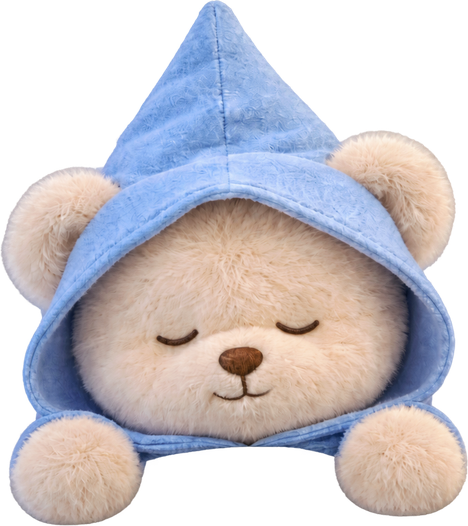
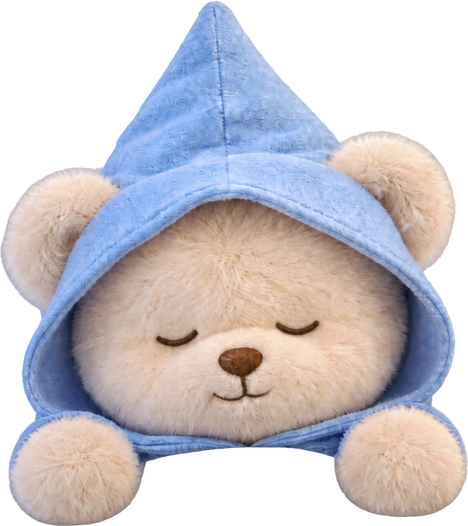
Спальня: дышит одеяло, а не голова; засыпая — клюёт носом
Заказчик 22.09 по второй версии: «дыхание очень сильное, как будто
подпрыгивает его тело… у правого глаза как будто какая-то полоска».

Дыхание. Раньше вверх ехала вся фигура на 3,2 процента высоты плюс
раздувание — макушка ходила на четыре точки. Теперь фигуру не двигаем:
одеяло приподнимается от нижнего края на 1 процент своей высоты, плечи
расширяются на 1,4 по высоте и 0,6 по ширине от того же края, макушка
ходит на одну точку. Так и выглядит спящий под одеялом: дышит одеяло.

Засыпание. Лапы вынесены в отдельный слой (bear_paws.png, поверх
головы), чтобы лежать на месте, пока голова клюёт носом: с началом
эпизода голова за 3,6 с наклоняется на полтора градуса и опускается на
1,6 процента высоты, при пробуждении вздрагивает обратно за 420 мс с
перелётом. Все слои мишки теперь режутся по одной рамке, иначе лапы,
вырезанные по своему содержимому, садились не туда.

Моргание в три фазы через полуприкрытые: щелчок без промежуточного
кадра читался как сбой картинки.

Полоска у правого глаза — хвост века из базового файла, торчавший
из-под пересаженного глаза. Маска пересадки расширена.

Claude-Session: https://claude.ai/code/session_01EkUPogq5Va4qQG792fJCS6

diff --git a/lib/widgets/bedroom_scene.dart b/lib/widgets/bedroom_scene.dart
@@ -4,26 +4,26 @@ import 'dart:math' as math;
 
 import 'package:flutter/material.dart';
 
-/// Живые слои спальни: мишка дышит, моргает и засыпает под одеялом.
+/// Живые слои спальни: мишка сопит, моргает и засыпает под одеялом.
 ///
 /// Заказчик 21.09: «во вкладке сон, где мишка в кровати лежит, сделать
-/// анимацию дыхания и моргания глаз, будто он хочет спать». И 22.09, после
+/// анимацию дыхания и моргания глаз, будто он хочет спать». 22.09, после
 /// первой версии: «у него должно быть открыто, и он должен моргать. Это
-/// эффект, когда человек как будто бы засыпает» — то есть основное
-/// состояние с открытыми глазами, а прикрытые и закрытые — эпизоды.
+/// эффект, когда человек как будто бы засыпает». И после второй: «дыхание
+/// очень сильное, как будто подпрыгивает его тело» — то есть дышать должно
+/// одеяло и плечи, а не голова.
 ///
-/// Раньше это было нечем сделать: спальню прислали одной плоской картинкой,
-/// мишка был впечатан в фон вместе с подушками. Теперь картинка разобрана на
-/// слои (`tool/cut_bedroom_layers.py`), и мишка — отдельный файл, который
-/// можно двигать и подменять.
+/// По ТЗ аниматора это `act_sleep`: «укладывается, засыпает, сопит» — риг в
+/// Rive. Позы «лёжа» в риге нет, и заказчик прислал спальню картинкой вместо
+/// неё. Картинка разобрана на слои (`tool/cut_bedroom_layers.py`), и из них
+/// здесь собрано то, что из `act_sleep` можно собрать без рига: сопение,
+/// моргание, засыпание с покачиванием головы. Укладывание и потягивание при
+/// пробуждении — уже только риг.
 ///
-/// Слои складываются снизу вверх: комната без мишки (это фон комнаты,
-/// рисуется не здесь) → мишка → передний край одеяла → свет ночника. Одеяло
-/// поверх мишки нужно именно для дыхания: его низ уходит под одеяло, а не
-/// болтается над ним.
-///
-/// Живой риг (`BearView`) сюда не ставится: поза «лёжа под одеялом» в риге
-/// не собрана, и заказчик прислал спальню как раз вместо неё.
+/// Слои снизу вверх: комната без мишки (фон комнаты, рисуется не здесь) →
+/// голова с лицом → лапы → передний край одеяла → свет ночника. Лапы отдельно,
+/// чтобы лежать на месте, пока голова клюёт носом. Одеяло поверх, чтобы низ
+/// фигуры уходил под него.
 class BedroomScene extends StatefulWidget {
   const BedroomScene({super.key});
 
@@ -39,12 +39,16 @@ class BedroomScene extends StatefulWidget {
   /// ребёнка; на взрослых трёх секундах мишка выглядит встревоженным.
   static const Duration breath = Duration(milliseconds: 4400);
 
-  /// Насколько мишка ходит вверх-вниз — в долях собственной высоты, и
-  /// насколько раздувается грудью. Заказчик 22.09 попросил заметнее: «чтобы
-  /// видно было, что он дышит грудью». Больше этого уже читается как
-  /// подпрыгивание.
-  static const double breathLift = 0.032;
-  static const double breathSwell = 0.022;
+  /// Дыхание — это одеяло и плечи, не голова. Одеяло приподнимается от
+  /// нижнего края, плечи чуть расширяются, макушка ходит на волосок.
+  /// Заказчик 22.09: при подъёме всей фигуры «как будто подпрыгивает».
+  static const double blanketRise = 0.010;
+  static const double shoulderSwell = 0.014;
+  static const double shoulderSpread = 0.006;
+
+  /// Засыпая, голова наклоняется и опускается. Радианы и доля высоты.
+  static const double nodTilt = -0.026;
+  static const double nodDrop = 0.016;
 
   /// Ночник дышит своим темпом: совпади он с мишкой, комната начала бы
   /// пульсировать целиком.
@@ -66,9 +70,9 @@ enum _Face {
   final String asset;
 }
 
-/// Один шаг сценария: показать лицо, перетекая к нему за [fade], и держать
-/// его [hold], прежде чем идти дальше.
-typedef _Step = ({_Face face, Duration fade, Duration hold});
+/// Один шаг сценария: показать лицо, перетекая к нему за [fade], держать
+/// его [hold] и, если сказано, начать или прекратить клевать носом.
+typedef _Step = ({_Face face, Duration fade, Duration hold, bool? nod});
 
 class _BedroomSceneState extends State<BedroomScene>
     with TickerProviderStateMixin {
@@ -86,6 +90,20 @@ class _BedroomSceneState extends State<BedroomScene>
     vsync: this,
     duration: const Duration(milliseconds: 140),
     value: 1,
+  );
+
+  /// Голова: 0 — прямо, 1 — свесилась. Вперёд медленно, а обратно
+  /// вздрагивает: спохватился.
+  late final AnimationController _nodDrive = AnimationController(
+    vsync: this,
+    duration: const Duration(milliseconds: 3600),
+    reverseDuration: const Duration(milliseconds: 420),
+  );
+
+  late final Animation<double> _nod = CurvedAnimation(
+    parent: _nodDrive,
+    curve: Curves.easeInOutSine,
+    reverseCurve: Curves.easeOutBack,
   );
 
   /// Вдох короче выдоха: так дышат во сне. Ровная синусоида читается как
@@ -132,8 +150,10 @@ class _BedroomSceneState extends State<BedroomScene>
       _plan.clear();
       _breath.stop();
       _lamp.stop();
+      _nodDrive.stop();
       _breath.value = 0;
       _lamp.value = 0;
+      _nodDrive.value = 0;
       _show(_Face.open, Duration.zero);
     } else {
       _breath.repeat();
@@ -148,6 +168,7 @@ class _BedroomSceneState extends State<BedroomScene>
     _breath.dispose();
     _lamp.dispose();
     _fade.dispose();
+    _nodDrive.dispose();
     super.dispose();
   }
 
@@ -170,23 +191,26 @@ class _BedroomSceneState extends State<BedroomScene>
     final drowsy = _blinks >= 3 && _dice.nextInt(3) == 0;
     if (!drowsy) {
       _blinks++;
-      // Моргание: быстро закрыть, чуть медленнее открыть.
+      // Моргание в три фазы через полуприкрытые: щелчок «открыто-закрыто»
+      // без промежуточного кадра выглядит как сбой картинки.
       _plan.addAll([
-        (face: _Face.closed, fade: _ms(80), hold: _ms(110, 60)),
-        (face: _Face.open, fade: _ms(120), hold: Duration.zero),
+        (face: _Face.half, fade: _ms(55), hold: Duration.zero, nod: null),
+        (face: _Face.closed, fade: _ms(55), hold: _ms(90, 60), nod: null),
+        (face: _Face.half, fade: _ms(70), hold: Duration.zero, nod: null),
+        (face: _Face.open, fade: _ms(110), hold: Duration.zero, nod: null),
       ]);
     } else {
       _blinks = 0;
-      // Засыпание: веки тяжелеют, глаза закрываются, и через несколько
-      // секунд он спохватывается и открывает их снова. Перед этим —
-      // иногда зевок.
+      // Засыпание: веки тяжелеют, голова клюёт носом, глаза закрываются —
+      // и через несколько секунд он спохватывается. Перед этим иногда
+      // зевок.
       if (_dice.nextBool()) {
-        _plan.add((face: _Face.yawn, fade: _ms(220), hold: _ms(1300, 300)));
+        _plan.add((face: _Face.yawn, fade: _ms(220), hold: _ms(1300, 300), nod: null));
       }
       _plan.addAll([
-        (face: _Face.half, fade: _ms(700), hold: _ms(1400, 1200)),
-        (face: _Face.closed, fade: _ms(900), hold: _ms(2600, 2400)),
-        (face: _Face.open, fade: _ms(260), hold: Duration.zero),
+        (face: _Face.half, fade: _ms(700), hold: _ms(1400, 1200), nod: true),
+        (face: _Face.closed, fade: _ms(900), hold: _ms(2600, 2400), nod: null),
+        (face: _Face.open, fade: _ms(260), hold: Duration.zero, nod: false),
       ]);
     }
     _step();
@@ -201,6 +225,14 @@ class _BedroomSceneState extends State<BedroomScene>
     }
     final step = _plan.removeFirst();
     _show(step.face, step.fade);
+    switch (step.nod) {
+      case true:
+        _nodDrive.forward();
+      case false:
+        _nodDrive.reverse();
+      case null:
+        break;
+    }
     _next?.cancel();
     _next = Timer(step.fade + step.hold, _step);
   }
@@ -232,10 +264,11 @@ class _BedroomSceneState extends State<BedroomScene>
 
           return Stack(
             children: [
-              _bearLayer(w, h),
-              _place(BedroomScene.blanket, w, h,
-                  Image.asset('assets/rooms/bedroom/blanket_front.png',
+              _headLayer(w, h),
+              _place(BedroomScene.bear, w, h,
+                  Image.asset('assets/rooms/bedroom/bear_paws.png',
                       fit: BoxFit.fill)),
+              _place(BedroomScene.blanket, w, h, _blanketLayer()),
               _place(BedroomScene.glow, w, h, _glowLayer()),
             ],
           );
@@ -244,44 +277,60 @@ class _BedroomSceneState extends State<BedroomScene>
     );
   }
 
-  /// Мишка: дышит и меняет лицо.
-  Widget _bearLayer(double w, double h) {
+  /// Голова: плечи дышат, лицо меняется, засыпая — клюёт носом.
+  Widget _headLayer(double w, double h) {
     final box = BedroomScene.bear;
     final height = box.height * h;
 
     return AnimatedBuilder(
-      animation: Listenable.merge([_breath, _fade]),
+      animation: Listenable.merge([_breath, _fade, _nodDrive]),
       builder: (context, _) {
-        // Вдох — подъём и раздувание груди вверх и в стороны от одеяла.
-        // Низ остаётся на месте: он и так спрятан под одеялом.
         final wave = _wave.value;
-        final lift = -height * BedroomScene.breathLift * wave;
-        final swell = BedroomScene.breathSwell * wave;
+        final nod = _nod.value;
 
         return Positioned(
           left: box.left * w,
-          top: box.top * h + lift,
+          top: box.top * h + height * BedroomScene.nodDrop * nod,
           width: box.width * w,
           height: height,
-          child: Transform.scale(
-            scaleX: 1 + swell * 0.45,
-            scaleY: 1 + swell,
+          // Всё от нижнего края: он под одеялом, и ему двигаться нельзя.
+          child: Transform.rotate(
+            angle: BedroomScene.nodTilt * nod,
             alignment: Alignment.bottomCenter,
-            child: Stack(
-              fit: StackFit.expand,
-              children: [
-                // Нижний слой держит кадр целиком, верхний проступает
-                // сквозь него: так между вариантами не мелькает фон.
-                Image.asset(_under.asset, fit: BoxFit.fill),
-                Opacity(
-                  opacity: _fade.value,
-                  child: Image.asset(_face.asset, fit: BoxFit.fill),
-                ),
-              ],
+            child: Transform.scale(
+              scaleX: 1 + BedroomScene.shoulderSpread * wave,
+              scaleY: 1 + BedroomScene.shoulderSwell * wave,
+              alignment: Alignment.bottomCenter,
+              child: Stack(
+                fit: StackFit.expand,
+                children: [
+                  // Нижний слой держит кадр целиком, верхний проступает
+                  // сквозь него: так между вариантами не мелькает фон.
+                  Image.asset(_under.asset, fit: BoxFit.fill),
+                  Opacity(
+                    opacity: _fade.value,
+                    child: Image.asset(_face.asset, fit: BoxFit.fill),
+                  ),
+                ],
+              ),
             ),
           ),
         );
       },
+    );
+  }
+
+  /// Одеяло приподнимается на вдохе — это и есть то, что видно у спящего.
+  Widget _blanketLayer() {
+    return AnimatedBuilder(
+      animation: _breath,
+      builder: (context, child) => Transform.scale(
+        scaleY: 1 + BedroomScene.blanketRise * _wave.value,
+        alignment: Alignment.bottomCenter,
+        child: child,
+      ),
+      child: Image.asset('assets/rooms/bedroom/blanket_front.png',
+          fit: BoxFit.fill),
     );
   }
 

diff --git a/tool/cut_bedroom_layers.py b/tool/cut_bedroom_layers.py
@@ -12,6 +12,7 @@
     assets/rooms/bedroom/bear_half.png    полуприкрытые глаза
     assets/rooms/bedroom/bear_closed.png  глаза закрыты
     assets/rooms/bedroom/bear_yawn.png    зевок
+    assets/rooms/bedroom/bear_paws.png    лапы отдельно, поверх головы
     assets/rooms/bedroom/blanket_front.png передний край одеяла
     assets/rooms/bedroom/lamp_glow.png    свет ночника
 
@@ -24,7 +25,7 @@ from __future__ import annotations
 import argparse
 from pathlib import Path
 
-from PIL import Image, ImageDraw, ImageFilter
+from PIL import Image, ImageChops, ImageDraw, ImageFilter
 
 ROOT = Path(__file__).resolve().parent.parent
 OUT = ROOT / 'assets' / 'rooms' / 'bedroom'
@@ -47,7 +48,12 @@ MOUTH = (405, 1030, 560, 1180)
 # с остальными по контуру, и подменять его целиком нельзя. Зато сами глаза
 # у него на месте: пересаживаем только их в базовый файл, двумя пятнами
 # по векам. Координаты — в файле полуприкрытых (941 × 1672).
-EYES = ((348, 944, 440, 1020), (538, 912, 632, 996))
+EYES = ((348, 944, 440, 1020), (535, 905, 648, 1000))
+
+# Лапы — отдельный слой поверх головы: когда мишка, засыпая, клюёт носом,
+# голова двигается, а лапы лежат на одеяле, где лежали. Два пятна в файле
+# полуприкрытых; их край перекрывает капюшон, потому и с растушёвкой.
+PAWS = ((95, 1120, 305, 1330), (665, 1115, 890, 1330))
 
 
 def cut(image, floor=8):
@@ -97,12 +103,26 @@ def open_face(folder):
     return Image.composite(aligned, half, mask.filter(ImageFilter.GaussianBlur(8)))
 
 
-def put_bear(image, name):
-    """Привести фигуру к её месту на фоне и сохранить."""
-    figure, _ = cut(image)
+def paws_only(folder):
+    """Только лапы, всё остальное прозрачно."""
+    half = Image.open(folder / '02-half.png').convert('RGBA')
+    mask = Image.new('L', half.size, 0)
+    for paw in PAWS:
+        ImageDraw.Draw(mask).ellipse(list(paw), fill=255)
+    mask = mask.filter(ImageFilter.GaussianBlur(6))
+    half.putalpha(ImageChops.multiply(half.getchannel('A'), mask))
+    return half
+
+
+def put_bear(image, box, name):
+    """Вырезать фигуру по общей рамке и сохранить в размере ассета.
+
+    Рамка у всех слоёв мишки одна — иначе лапы, вырезанные по своему
+    содержимому, сели бы не туда, где лежат на голове.
+    """
     size = (BEAR[2] * BEAR_SCALE, BEAR[3] * BEAR_SCALE)
     path = OUT / name
-    figure.resize(size, Image.LANCZOS).save(path, optimize=True)
+    image.crop(box).resize(size, Image.LANCZOS).save(path, optimize=True)
     print(f'{path.name:22} {size[0]} × {size[1]}, {path.stat().st_size / 1024:.0f} КБ')
 
 
@@ -122,10 +142,13 @@ def main() -> int:
     print(f'{room_path.name:22} {room.size[0]} × {room.size[1]}, '
           f'{room_path.stat().st_size / 1024:.0f} КБ')
 
-    put_bear(open_face(args.second), 'bear_open.png')
-    put_bear(Image.open(args.second / '02-half.png').convert('RGBA'), 'bear_half.png')
-    put_bear(Image.open(args.second / '01-yawn.png').convert('RGBA'), 'bear_yawn.png')
-    put_bear(closed_face(args.second), 'bear_closed.png')
+    half = Image.open(args.second / '02-half.png').convert('RGBA')
+    _, box = cut(half)
+    put_bear(open_face(args.second), box, 'bear_open.png')
+    put_bear(half, box, 'bear_half.png')
+    put_bear(Image.open(args.second / '01-yawn.png').convert('RGBA'), box, 'bear_yawn.png')
+    put_bear(closed_face(args.second), box, 'bear_closed.png')
+    put_bear(paws_only(args.second), box, 'bear_paws.png')
 
     left, top, width, height = BEAR
     print(f'  мишка: {share((left, top, left + width, top + height))}')
